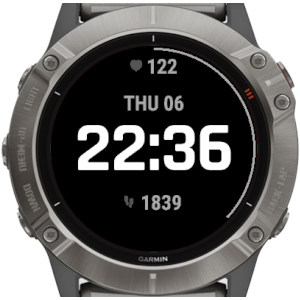
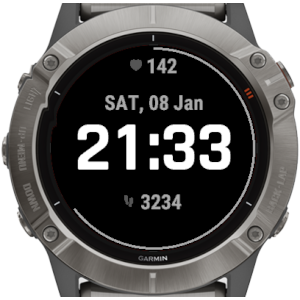
Add setting to display current month

diff --git a/store/README.md b/store/README.md
@@ -15,6 +15,8 @@ Icons made by Freepik - https://www.freepik.com
 
 ##  What’s New (Optional) (Maximum 4,000 Characters)
 
+Version 1.1.6: Optionally display the current month in the date field above the time
+
 Version 1.1.5: Add a setting to specify beyond which point the remaining battery should be displayed (in percent)
 
 Version 1.1.4: Fix alignment of battery icon and remaining battery percentage on Fenix 6X Pro
